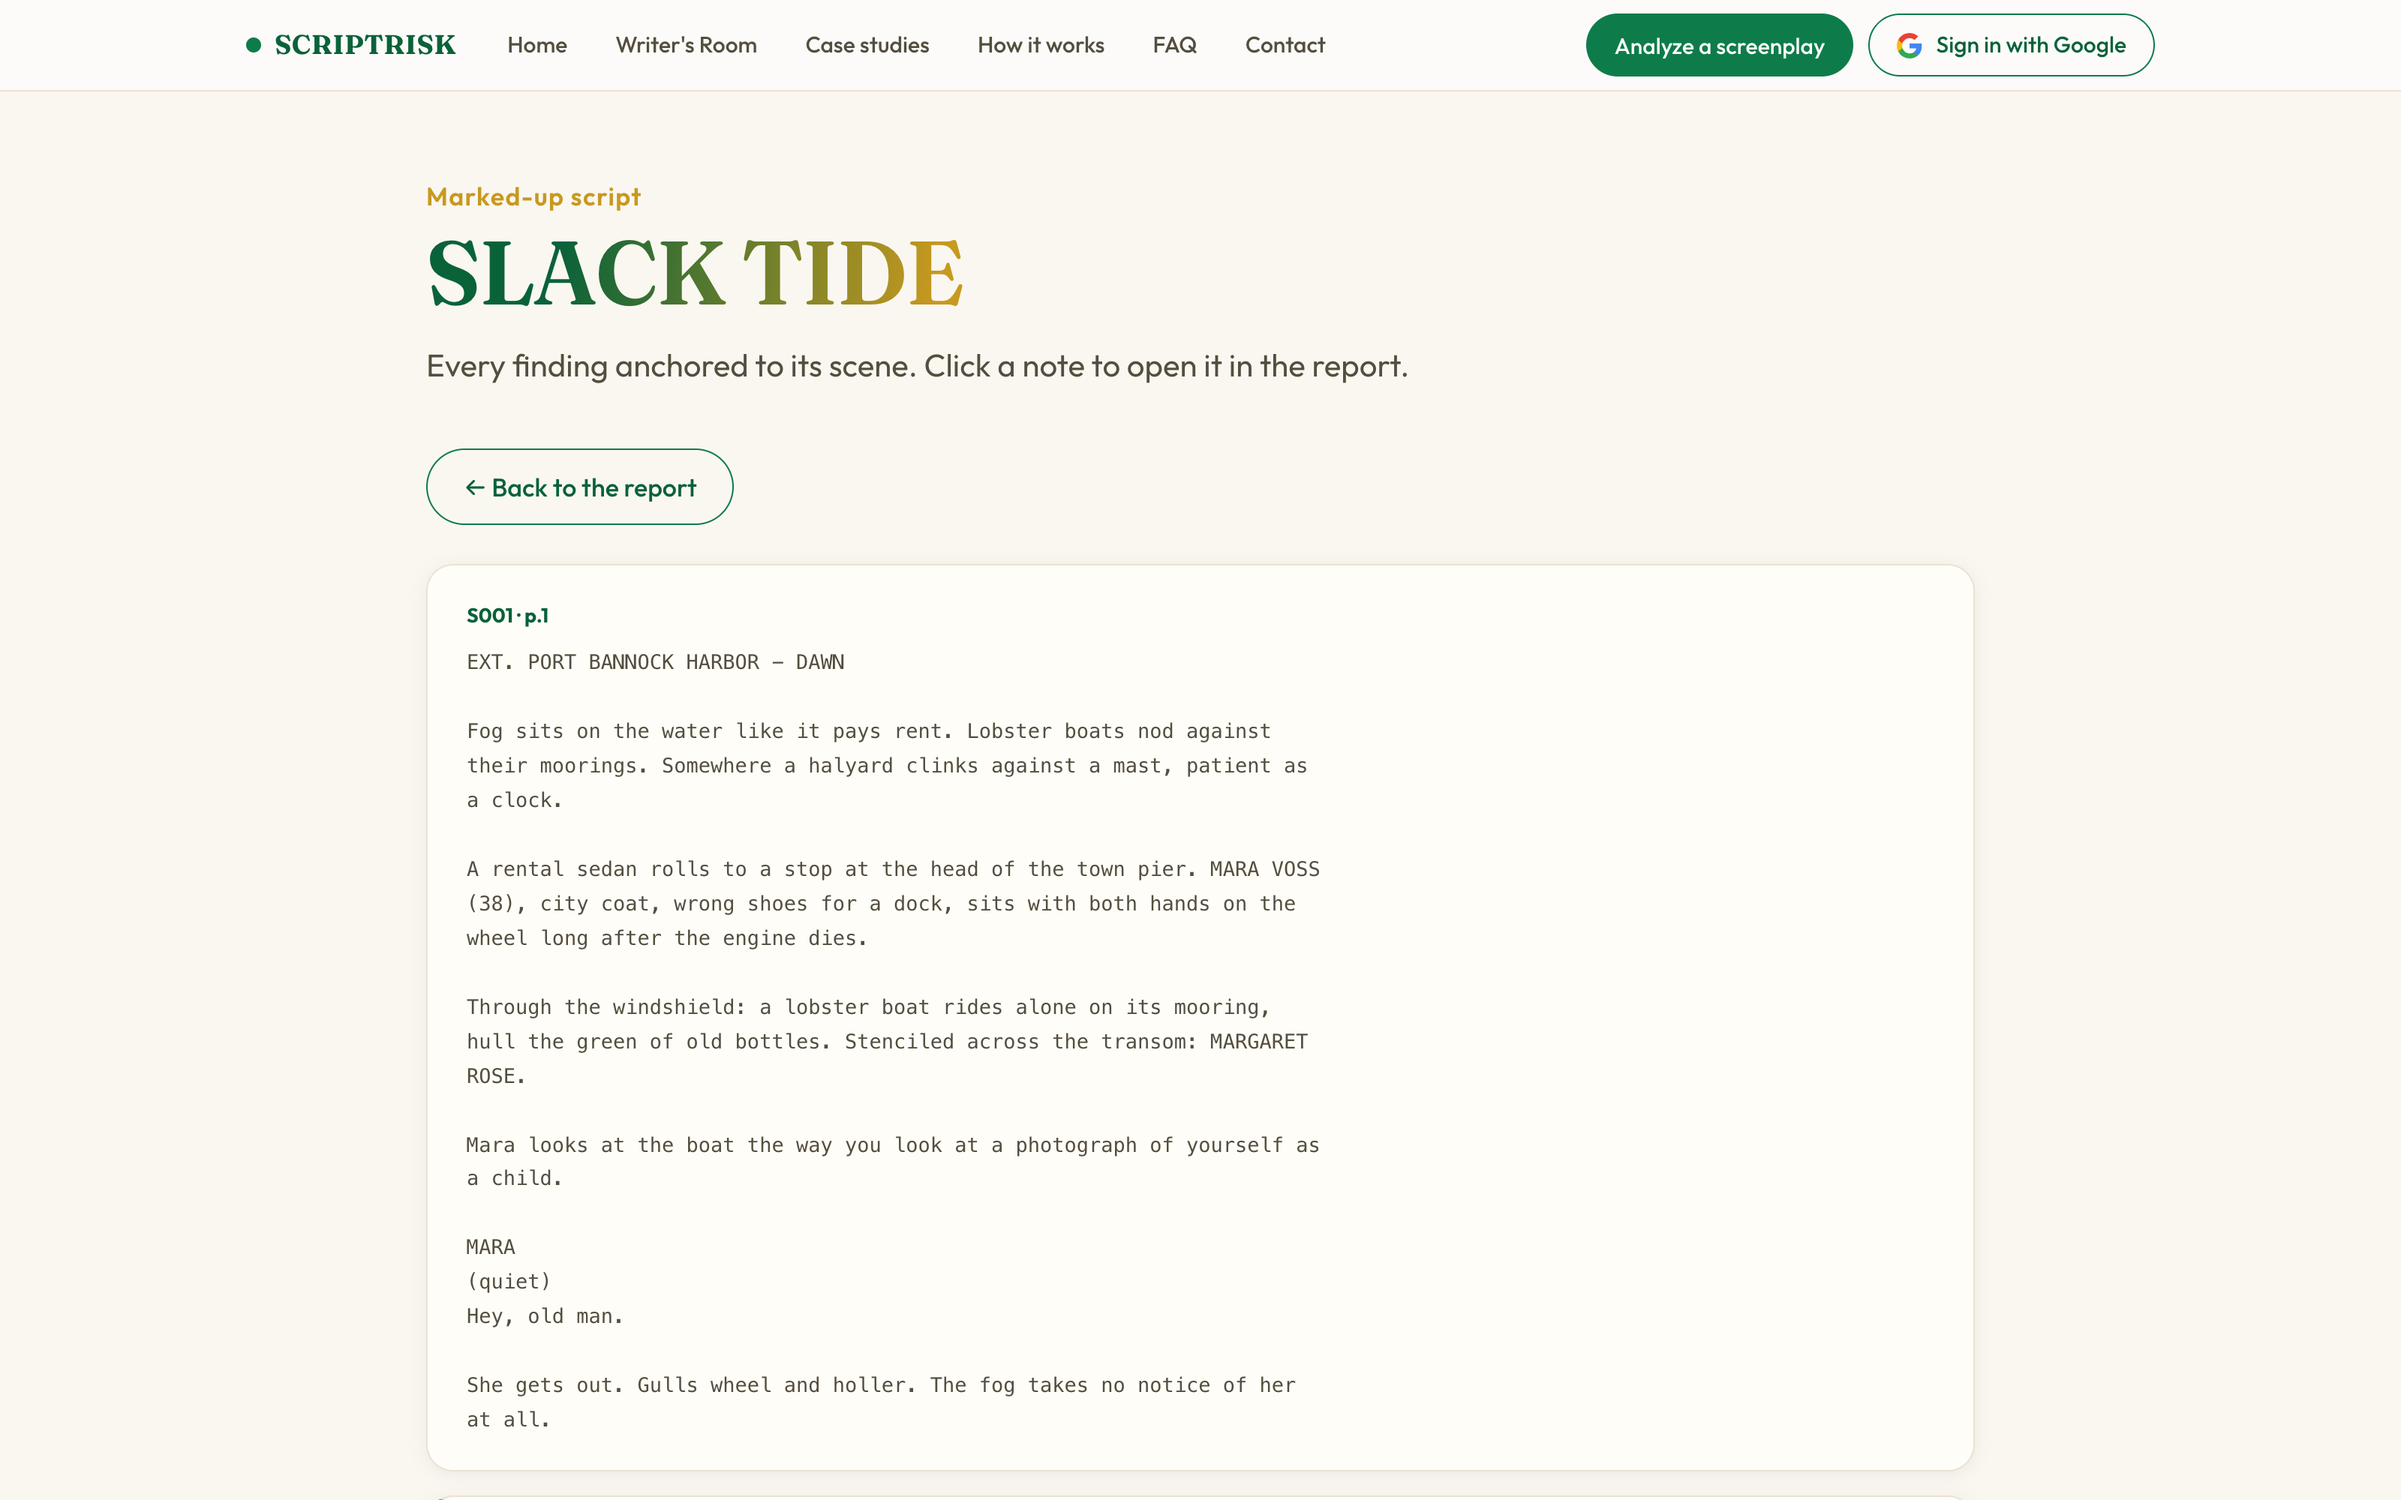
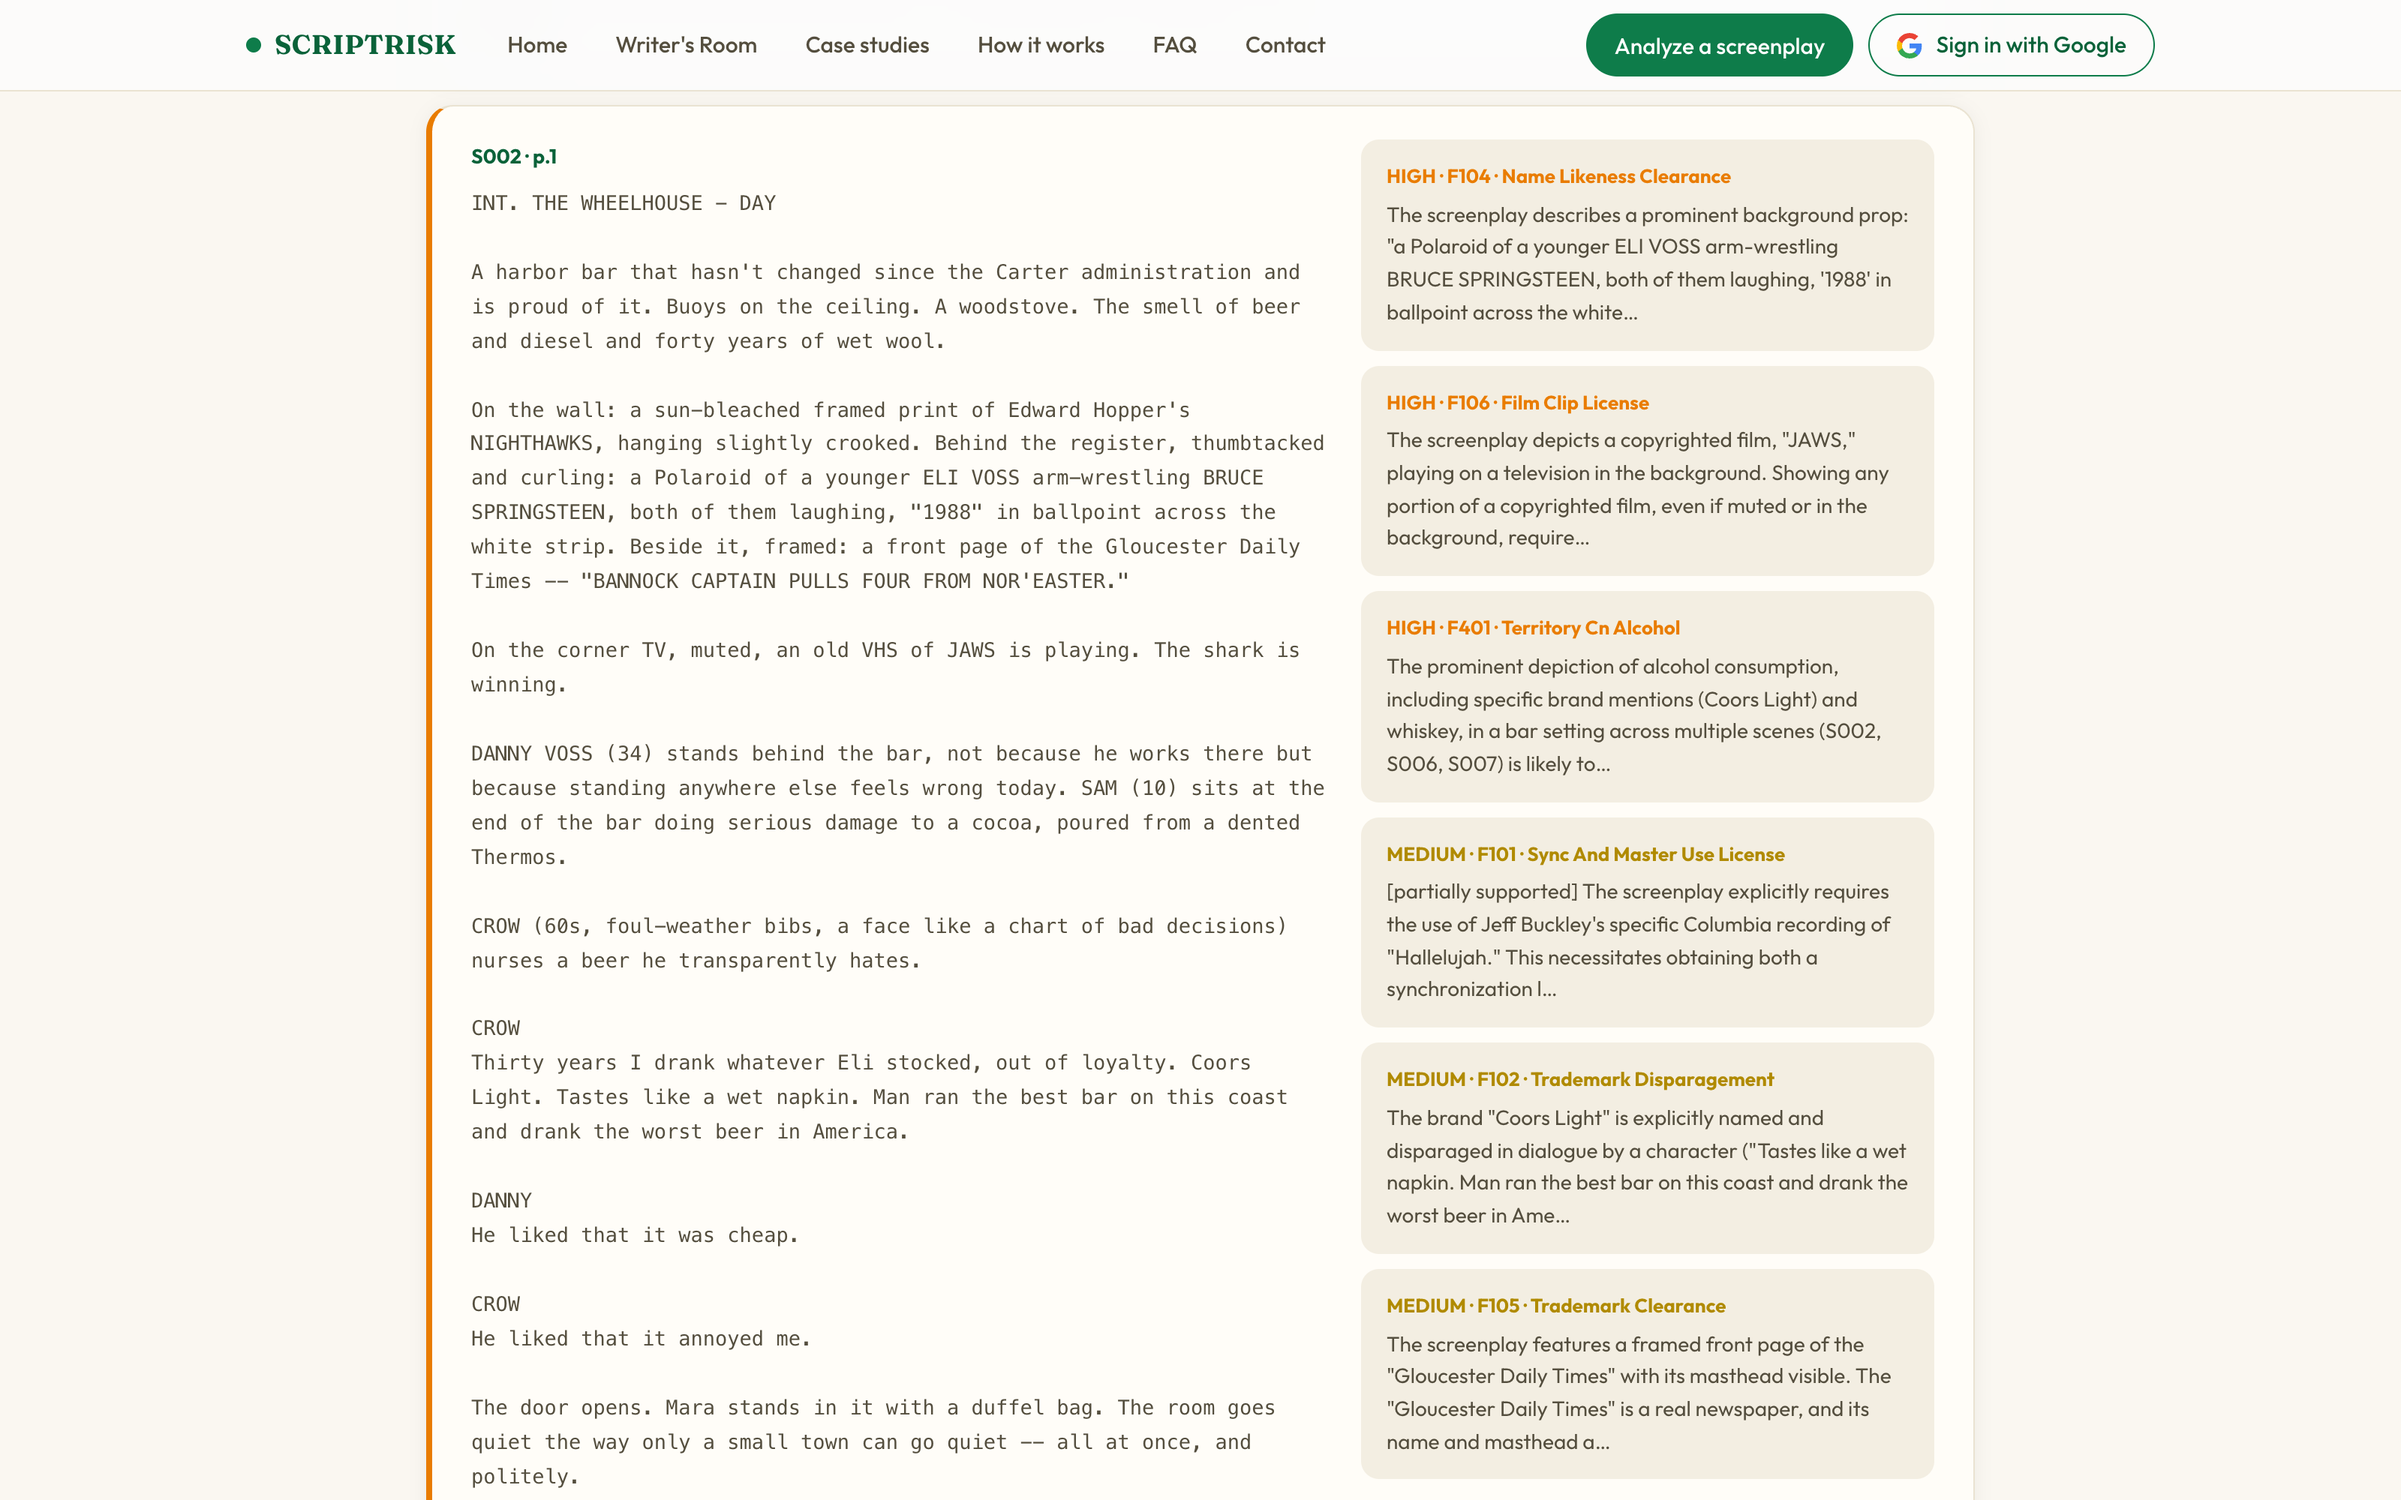
Devpost gallery pack: five captioned screenshots, 3:2 thumbnail, README visuals
- docs/assets/: report hero (score ring, blockers, cost), Read-Through
  mid-run, F301 citation card, rating prediction with comparables,
  marked-up script with margin notes, Studio Room REJECTED verdict
- devpost-thumb.png (1200x800) in the og.png design language
- README: hero screenshot up top + native-mermaid architecture diagram

Claude-Session: https://claude.ai/code/session_01EnQ25PneMiTJ5kah1gP4yv

diff --git a/README.md b/README.md
@@ -4,6 +4,8 @@
 *(repo codename: greenlight — the product is ScriptRisk; its score kept the old name)*
 Live at **[scriptrisk.com](https://scriptrisk.com)** · built for the Agentic Cinema hackathon, Parallel track.
 
+![The Production Risk Report — score, blockers, and clearance cost](docs/assets/shot-report-hero.png)
+
 Before a single frame is shot, a studio spends weeks clearing a screenplay: four separate desks —
 rights counsel, the ratings board, the safety underwriter, and territory censors — each read the
 same script looking for different ways it will cost money or fail to release. The work is manual,
@@ -16,6 +18,28 @@ up in the report, with the reason.
 
 > **The one non-negotiable rule:** a finding without a citation does not render. It is enforced
 > in the `file_flag` tool's schema validation, not requested in a prompt.
+
+## Architecture
+
+```mermaid
+flowchart TD
+    A[Screenplay<br/>Fountain / PDF] --> B[ScriptParser<br/>deterministic Python]
+    B --> C[Triage · LlmAgent<br/>entities → per-desk worklists]
+    C --> D1[Clearance Counsel<br/>LoopAgent]
+    C --> D2[Ratings Board<br/>LoopAgent]
+    C --> D3[Safety Underwriter<br/>LoopAgent]
+    C --> D4[Territory Censor<br/>LoopAgent]
+    D1 & D2 & D3 & D4 -->|file_flag rejects<br/>uncited findings| V[Verification Panel<br/>one blinded verifier per flag<br/>can REJECT]
+    V --> J[Adjudicator · LoopAgent<br/>merge · resolve · re-enter desks]
+    J --> R[ReportWriter<br/>deterministic Python]
+    R --> O[Risk report · marked-up script<br/>rating prediction]
+    P[(Parallel Search<br/>live web citations)] -.-> D1 & D2 & D3 & D4
+    K[(ClickHouse<br/>2,487-film corpus)] -.-> D2
+```
+
+The four desks run concurrently (`ParallelAgent`); each is a `LoopAgent` deciding for itself
+what to investigate and when to stop. Gemini judges; Parallel retrieves the outside world;
+ClickHouse holds the comparison set — the model never asserts what a tool can retrieve.
 
 ## What it produces
 
